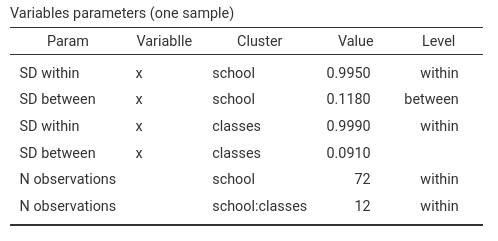
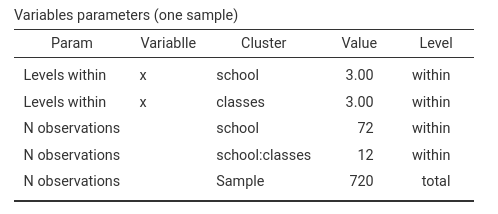
updates

diff --git a/docs/mixed_clusters.html b/docs/mixed_clusters.html
@@ -225,6 +225,9 @@
       <li><a href="#nested-cluster-classification"
       id="toc-nested-cluster-classification">Nested cluster
       classification</a></li>
+      <li><a href="#apparently-nested-desings"
+      id="toc-apparently-nested-desings">Apparently nested
+      desings</a></li>
       </ul></li>
       <li><a href="#additional-material"
       id="toc-additional-material">Additional material</a></li>
@@ -392,7 +395,7 @@ designs</a> for help on that.</p>
 <h1>Multi-cluster designs</h1>
 <p>Here we discuss cases with more than one clustering variable. When
 more than one cluster variable is involved, things gets a bit complex (a
-dare I say ugly), but still those designs are doable in <span
+dare I say wild), but still those designs are doable in <span
 class="modulename">PAMLj</span>. One needs a bit more patience.</p>
 <p>Two cases are most relevant for researchers:
 <strong>cross-classified</strong> clustering and <strong>nested
@@ -409,13 +412,12 @@ only one measurement for each combination of participant and stimulus (a
 participant sees a stimulus only once).</p>
 <p>The mixed model is:</p>
 <pre><code>y~1*1+1*x+(1*1|PID)+(1*1|SID)</code></pre>
-<p>Let’s say we want a sample of 10 participants and 5 stimuli. In total
-we have 50 observations, in which each participant has
+<p>Let’s say we want a sample of 10 participants and 6 stimuli. In total
+we have 60 observations, in which each participant has
 <code>N per cluster</code> equal to 1, and each stimulus has
-<code>N per cluster</code> equal to 1 as well. It may seem
-counterintuitive, but the participant is actually repeated only once,
-but their measurement is spread across 5 stimuli. Thus, we need to
-set:</p>
+<code>N per cluster</code> equal to 1 as well. It may seem counter
+intuitive, but the participant is actually repeated only once, but their
+measurement is spread across 6 stimuli. Thus, we need to set:</p>
 <p><img src="examples/mixed/example1/e2.input.1.png" width="546" /></p>
 <p>The resulting data (first participant) will look like this:</p>
 <pre><code>        y       PID SID
@@ -425,6 +427,7 @@ set:</p>
 4   0.649785351   1   4
 5  -1.373459856   1   5
 6  -2.073459856   1   6</code></pre>
+<p><img src="examples/mixed/example1/e2.output.4.png" width="477" /></p>
 <p>Now, what about a categorical variable (i.e., an experimental factor
 named <em>cond</em>)? If the variable is <em>between-subjects</em>, we
 simply declare it with the syntax keyword <code>bet: cond|PID</code>
@@ -466,7 +469,6 @@ a 4-level <em>cond</em>, we have (first two participants):</p>
 <code>Variables parameters table</code> showing that each
 <code>PID</code> cluster (participant) has 6 observations and each
 stimulus (<code>SID</code>) is seen 10 times, once per participant.</p>
-<p><img src="examples/mixed/example1/e2.output.2.png" width="510" /></p>
 <p>If the variable is <em>within-subjects</em>, we must ensure that the
 number of observations per participant (here 6) is a multiple of its
 levels. With 6 observations, <em>cond</em> can have 2 levels, 3 levels,
@@ -503,8 +505,8 @@ we change its <code>N per cluster</code>:</p>
 class="math inline">\(20\)</span> observation (2 for each of the 10
 participants), and each participants has <span
 class="math inline">\(12\)</span> observations, 2 per stimulus times 6
-stimuli. Indeed, the data are generated accordinglu.</p>
-<p><img src="examples/mixed/example1/e2.output.1.png" width="459" /></p>
+stimuli. Indeed, the data are generated accordingly.</p>
+<p><img src="examples/mixed/example1/e2.output.1.png" width="475" /></p>
 <p>With the same logic, we can simulate designs with several trials
 within each combination of participant and stimulus. For instance, with
 the following setup:</p>
@@ -513,17 +515,22 @@ the following setup:</p>
 participants has 54 observations (9 trials X 6 stimuli), and each
 stimulus features 90 observations (9 trials X 10 participants).
 Indeed:</p>
-<p><img src="examples/mixed/example1/e2.output.3.png" width="466" /></p>
+<p><img src="examples/mixed/example1/e2.output.3.png" width="497" /></p>
+<p>Notice that the total number of observation is 540. This is because
+we have 54 observations per participant (PID) and 10 participants, so it
+makes 540. Alternatively, we can say that we have 90 observations per
+stimulus and 6 stimuli, again 540.</p>
 </div>
 <div id="nested-cluster-classification" class="section level3">
 <h3>Nested cluster classification</h3>
-<p>Let us consider one of the classic multilevel design: pupils within
-classes within schools. In this design we have two clustering variables:
-<em>class</em> and <em>school</em>. In multilevel terminology, pupils
-are level 0, classes are level 1 with pupils nested within classes, and
-schools are level 2 with classes nested within schools. To be practical,
-let us assume we want a sample with 10 schools, each with 6 classes, and
-each class (on average) with 12 pupils.</p>
+<p>Here things get ugly: Let us consider one of the classic multilevel
+design: pupils within classes within schools. In this design we have two
+clustering variables: <em>class</em> and <em>school</em>. In multilevel
+terminology, pupils are level 0, classes are level 1 with pupils nested
+within classes, and schools are level 2 with classes nested within
+schools. To be practical, let us assume we want a sample with 10
+schools, each with 6 classes, and each class (on average) with 12
+pupils.</p>
 <p>First, we set the model:</p>
 <pre><code>y~1*1+1*x+(1*1|school/class)</code></pre>
 <p>Then we specify that we have 10 schools, each with 6 classes, and
@@ -558,7 +565,9 @@ how the model specification expands.</p>
 <p><img src="examples/mixed/example1/e3.output.2.png" width="498" /></p>
 <p>Let’s check if the setup is correct: each school has 6 classes with
 12 pupils, so within each school there are 72 observations. Within each
-class nested in school there are 12 pupils. The data are ok.</p>
+class nested in school there are 12 pupils. But how many observations
+we’ll have in the sample? Well, 720, because we have 72 observations per
+school and we have 10 school. So, the data are ok.</p>
 <div class="adm adm-note">
 <p>Note</p>
 <p>In mixed models estimated following the R package
@@ -580,6 +589,19 @@ example are <code>school</code> and <code>school:class</code>. Random
 coefficients (whatever they are) are computed across the groups defined
 by these two variables.</p>
 </div>
+</div>
+<div id="apparently-nested-desings" class="section level3">
+<h3>Apparently nested desings</h3>
+<p>A good rule of thumbs in mixed models is that <em>when you are in
+doubt about how the clustering variables are related, they are probably
+not nested</em>. Consider this design. We have 10 <em>labs</em> (or any
+number you like), each lab conducts an experiment with with 20
+participants (<em>PID</em>), each responding to 15 stimuli
+(<em>SID</em>). Thus, apparently we have a cross-classified experiment
+nested within labs. What this design actually means is that for each
+level of <em>labs</em> has all 20 X 15 observations corresponding to the
+cross-classified clustering we have seen above. Thus, we do not have
+nesting at all, but simply a 3-way classification.</p>
 </div>
 </div>
 <div id="additional-material" class="section level1">

diff --git a/docs/rosetta_prop_paired.html b/docs/rosetta_prop_paired.html
@@ -467,56 +467,32 @@ but for GPower, which is offset of 1 unit.</p>
 </div>
 <div id="results" class="section level2">
 <h2>Results</h2>
-<table class="gmisc_table" style="border-collapse: collapse; margin-top: 1em; margin-bottom: 1em;">
+<table class='gmisc_table' style='border-collapse: collapse; margin-top: 1em; margin-bottom: 1em;' >
 <thead>
-<tr>
-<th style="border-bottom: 1px solid grey; border-top: 2px solid grey;">
-</th>
-<th style="font-weight: 900; border-bottom: 1px solid grey; border-top: 2px solid grey; text-align: center;">
-Require N
-</th>
+<tr><th style='border-bottom: 1px solid grey; border-top: 2px solid grey;'></th>
+<th style='font-weight: 900; border-bottom: 1px solid grey; border-top: 2px solid grey; text-align: center;'>Require N</th>
 </tr>
 </thead>
 <tbody>
 <tr>
-<td style="text-align: left;">
-PAMLj
-</td>
-<td style="text-align: center;">
-69
-</td>
+<td style='text-align: left;'>PAMLj</td>
+<td style='text-align: center;'>69</td>
 </tr>
 <tr>
-<td style="text-align: left;">
-psw.com
-</td>
-<td style="text-align: center;">
-69
-</td>
+<td style='text-align: left;'>psw.com</td>
+<td style='text-align: center;'>69</td>
 </tr>
 <tr>
-<td style="text-align: left;">
-MESS
-</td>
-<td style="text-align: center;">
-69
-</td>
+<td style='text-align: left;'>MESS</td>
+<td style='text-align: center;'>69</td>
 </tr>
 <tr>
-<td style="text-align: left;">
-GPower
-</td>
-<td style="text-align: center;">
-70
-</td>
+<td style='text-align: left;'>GPower</td>
+<td style='text-align: center;'>70</td>
 </tr>
 <tr>
-<td style="border-bottom: 2px solid grey; text-align: left;">
-SPSS
-</td>
-<td style="border-bottom: 2px solid grey; text-align: center;">
-69
-</td>
+<td style='border-bottom: 2px solid grey; text-align: left;'>SPSS</td>
+<td style='border-bottom: 2px solid grey; text-align: center;'>69</td>
 </tr>
 </tbody>
 </table>
@@ -581,48 +557,28 @@ same.</p>
 <img src="rosetta/pics/prop/spss.paired.2b.png" width="774" /></p>
 <p>As above, SPSS is aligned with all other software but GPower,
 slightly offset.</p>
-<table class="gmisc_table" style="border-collapse: collapse; margin-top: 1em; margin-bottom: 1em;">
+<table class='gmisc_table' style='border-collapse: collapse; margin-top: 1em; margin-bottom: 1em;' >
 <thead>
-<tr>
-<th style="border-bottom: 1px solid grey; border-top: 2px solid grey;">
-</th>
-<th style="font-weight: 900; border-bottom: 1px solid grey; border-top: 2px solid grey; text-align: center;">
-Require N
-</th>
+<tr><th style='border-bottom: 1px solid grey; border-top: 2px solid grey;'></th>
+<th style='font-weight: 900; border-bottom: 1px solid grey; border-top: 2px solid grey; text-align: center;'>Require N</th>
 </tr>
 </thead>
 <tbody>
 <tr>
-<td style="text-align: left;">
-PAMLj
-</td>
-<td style="text-align: center;">
-56
-</td>
+<td style='text-align: left;'>PAMLj</td>
+<td style='text-align: center;'>56</td>
 </tr>
 <tr>
-<td style="text-align: left;">
-MESS
-</td>
-<td style="text-align: center;">
-56
-</td>
+<td style='text-align: left;'>MESS</td>
+<td style='text-align: center;'>56</td>
 </tr>
 <tr>
-<td style="text-align: left;">
-GPower
-</td>
-<td style="text-align: center;">
-58
-</td>
+<td style='text-align: left;'>GPower</td>
+<td style='text-align: center;'>58</td>
 </tr>
 <tr>
-<td style="border-bottom: 2px solid grey; text-align: left;">
-SPSS
-</td>
-<td style="border-bottom: 2px solid grey; text-align: center;">
-56
-</td>
+<td style='border-bottom: 2px solid grey; text-align: left;'>SPSS</td>
+<td style='border-bottom: 2px solid grey; text-align: center;'>56</td>
 </tr>
 </tbody>
 </table>

diff --git a/docs/rosetta_glm_n.html b/docs/rosetta_glm_n.html
@@ -427,48 +427,28 @@ class="math inline">\(pr=\sqrt{.10}=0.3162\)</span>.</p>
 </div>
 <div id="results" class="section level3">
 <h3>Results</h3>
-<table class="gmisc_table" style="border-collapse: collapse; margin-top: 1em; margin-bottom: 1em;">
+<table class='gmisc_table' style='border-collapse: collapse; margin-top: 1em; margin-bottom: 1em;' >
 <thead>
-<tr>
-<th style="border-bottom: 1px solid grey; border-top: 2px solid grey;">
-</th>
-<th style="font-weight: 900; border-bottom: 1px solid grey; border-top: 2px solid grey; text-align: center;">
-Require N
-</th>
+<tr><th style='border-bottom: 1px solid grey; border-top: 2px solid grey;'></th>
+<th style='font-weight: 900; border-bottom: 1px solid grey; border-top: 2px solid grey; text-align: center;'>Require N</th>
 </tr>
 </thead>
 <tbody>
 <tr>
-<td style="text-align: left;">
-PAMLj
-</td>
-<td style="text-align: center;">
-56
-</td>
+<td style='text-align: left;'>PAMLj</td>
+<td style='text-align: center;'>56</td>
 </tr>
 <tr>
-<td style="text-align: left;">
-MESS
-</td>
-<td style="text-align: center;">
-56
-</td>
+<td style='text-align: left;'>MESS</td>
+<td style='text-align: center;'>56</td>
 </tr>
 <tr>
-<td style="text-align: left;">
-GPower
-</td>
-<td style="text-align: center;">
-58
-</td>
+<td style='text-align: left;'>GPower</td>
+<td style='text-align: center;'>58</td>
 </tr>
 <tr>
-<td style="border-bottom: 2px solid grey; text-align: left;">
-SPSS
-</td>
-<td style="border-bottom: 2px solid grey; text-align: center;">
-56
-</td>
+<td style='border-bottom: 2px solid grey; text-align: left;'>SPSS</td>
+<td style='border-bottom: 2px solid grey; text-align: center;'>56</td>
 </tr>
 </tbody>
 </table>
